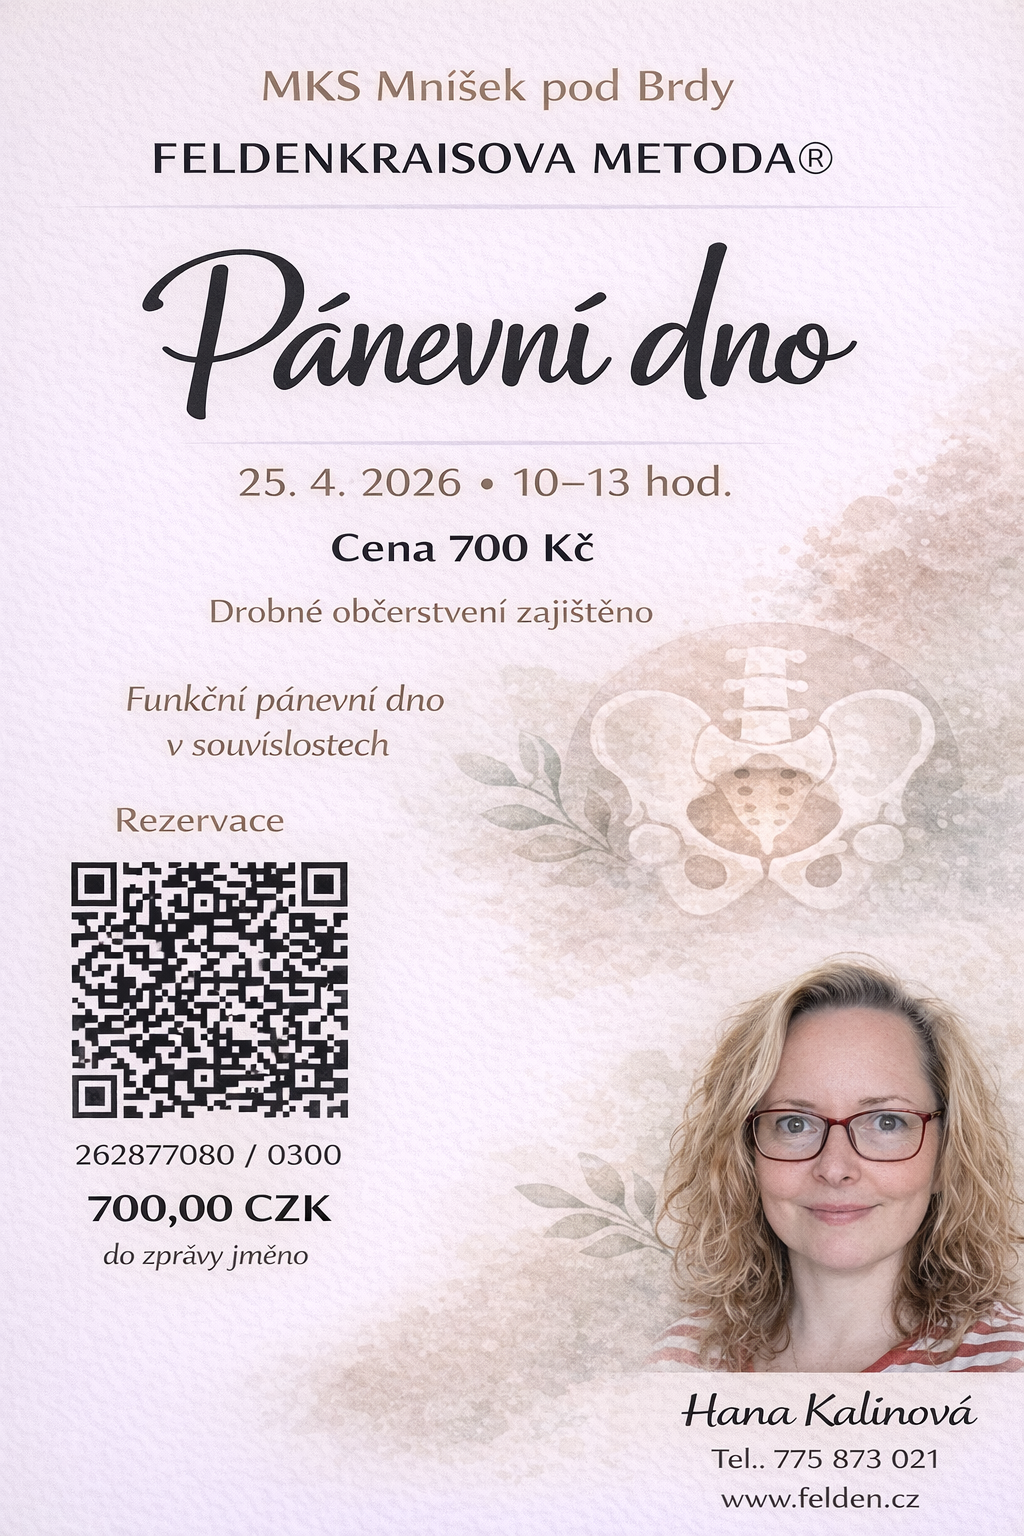
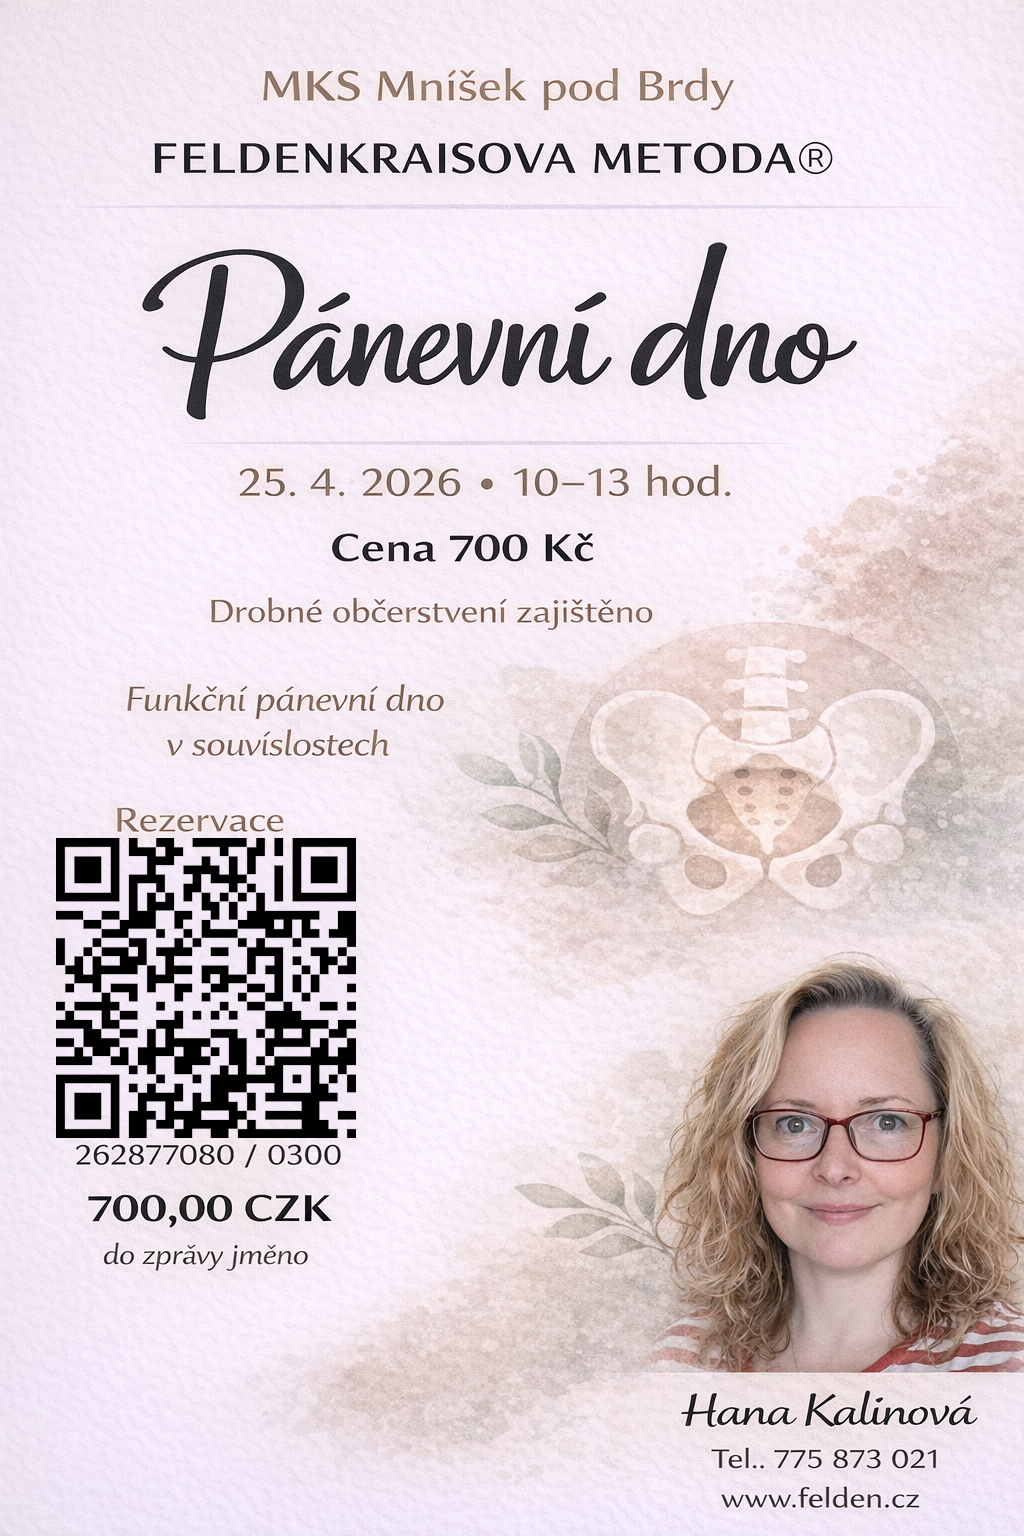
Updated the QR codes for the Workshop and for all the courses.

Changed region(s): [[0.0312, 0.5312, 0.375, 0.75]]

diff --git a/public/kurzy/index.html b/public/kurzy/index.html
@@ -1088,6 +1088,18 @@
 <p>Středa 18:30–19:30 MKS Mníšek</p>
 <p>1. 4. 2026 – 24. 6. 2026 (mimo 15. 4. a 10.6.)<br>
 <strong>Cena: 1870 Kč (11 lekcí)</strong></p>
+<figure><img
+    class="my-0 rounded-md"
+    loading="lazy"
+    decoding="async"
+    fetchpriority="auto"
+    alt="QRCode"
+    width="410"
+    height="410"
+    src="/kurzy/2026-03-27_1870CZK.png"
+    srcset="/kurzy/2026-03-27_1870CZK.png 800w, /kurzy/2026-03-27_1870CZK.png 1280w"
+    sizes="(min-width: 768px) 50vw, 65vw"
+    data-zoom-src="/kurzy/2026-03-27_1870CZK.png"></figure>
 <hr>
 
 <h2 class="relative group">Feldenkraisova metoda ATM
@@ -1102,6 +1114,18 @@
 <p>Středa 19:40–20:30 MKS Mníšek</p>
 <p>1. 4. 2026 – 24. 6. 2026 (mimo 15. 4. a 10.6.)<br>
 <strong>Cena: 2090 Kč (11 lekcí)</strong></p>
+<figure><img
+    class="my-0 rounded-md"
+    loading="lazy"
+    decoding="async"
+    fetchpriority="auto"
+    alt="QRCode"
+    width="450"
+    height="450"
+    src="/kurzy/2026-03-27_2090CZK.png"
+    srcset="/kurzy/2026-03-27_2090CZK.png 800w, /kurzy/2026-03-27_2090CZK.png 1280w"
+    sizes="(min-width: 768px) 50vw, 65vw"
+    data-zoom-src="/kurzy/2026-03-27_2090CZK.png"></figure>
 <hr>
 
 <h2 class="relative group">Kombinace 2 prezenčních kurzu
@@ -1117,6 +1141,18 @@
 <p>Přestupová permice na 10 vstupů v platnosti délky kurzu
 2200 Kč 10 vstupů.</p>
 <p>Jednorázové vstupné 250 Kč/ 200 Kč plátci jiného kurzu.</p>
+<figure><img
+    class="my-0 rounded-md"
+    loading="lazy"
+    decoding="async"
+    fetchpriority="auto"
+    alt="QRCode"
+    width="450"
+    height="450"
+    src="/kurzy/2026-03-27_3760CZK.png"
+    srcset="/kurzy/2026-03-27_3760CZK.png 800w, /kurzy/2026-03-27_3760CZK.png 1280w"
+    sizes="(min-width: 768px) 50vw, 65vw"
+    data-zoom-src="/kurzy/2026-03-27_3760CZK.png"></figure>
 <hr>
 
 <h2 class="relative group">Feldenkraisova metoda ONLINE

diff --git a/public/workshopy/index.html b/public/workshopy/index.html
@@ -1018,8 +1018,8 @@
     alt="Cover"
     width="1024"
     height="1536"
-    src="/workshopy/cover_hu_811350fe39099091.png"
-    srcset="/workshopy/cover_hu_811350fe39099091.png 800w, /workshopy/cover.png 1280w"
+    src="/workshopy/cover_hu_6c0f0163e61bbd72.png"
+    srcset="/workshopy/cover_hu_6c0f0163e61bbd72.png 800w, /workshopy/cover.png 1280w"
     sizes="(min-width: 768px) 50vw, 65vw"
     data-zoom-src="/workshopy/cover.png"></figure>
 

diff --git a/content/kurzy/index.md b/content/kurzy/index.md
@@ -11,6 +11,8 @@ Středa 18:30–19:30 MKS Mníšek
 1\. 4. 2026 – 24. 6. 2026 (mimo 15. 4. a 10.6.)  
  **Cena: 1870 Kč (11 lekcí)**
 
+![QRCode](2026-03-27_1870CZK.png)
+
 ---
 
 ## Feldenkraisova metoda ATM
@@ -19,6 +21,8 @@ Středa 19:40–20:30 MKS Mníšek
 
 1\. 4. 2026 – 24. 6. 2026 (mimo 15. 4. a 10.6.)  
  **Cena: 2090 Kč (11 lekcí)**
+
+![QRCode](2026-03-27_2090CZK.png)
 
 ---
 
@@ -30,6 +34,8 @@ Přestupová permice na 10 vstupů v platnosti délky kurzu
 2200 Kč 10 vstupů.
 
 Jednorázové vstupné 250 Kč/ 200 Kč plátci jiného kurzu.
+
+![QRCode](2026-03-27_3760CZK.png)
 
 ---
 
